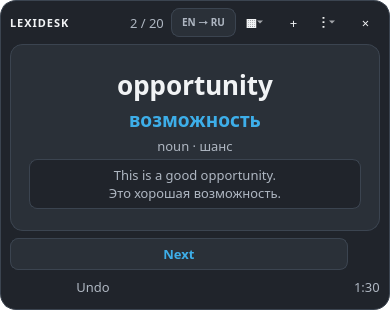
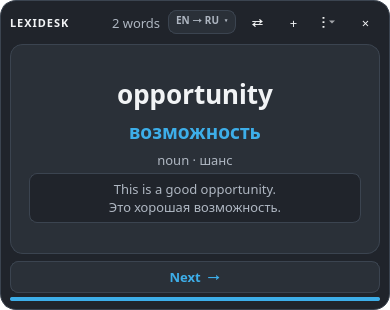
fix: improve responsive cross-platform UI

diff --git a/src/lexidesk/dialogs.py b/src/lexidesk/dialogs.py
@@ -12,11 +12,13 @@ from PySide6.QtWidgets import (
     QDialogButtonBox,
     QDoubleSpinBox,
     QFormLayout,
+    QFrame,
     QHBoxLayout,
     QLabel,
     QLineEdit,
     QMessageBox,
     QPushButton,
+    QScrollArea,
     QSpinBox,
     QTabWidget,
     QVBoxLayout,
@@ -156,7 +158,8 @@ class AddWordDialog(QDialog):
         self.source_edit.setPlaceholderText("Word or phrase")
         self.source_edit.returnPressed.connect(self.translate)
 
-        self.translate_button = QPushButton("Translate offline")
+        self.translate_button = QPushButton("Translate")
+        self.translate_button.setToolTip("Translate using installed offline data")
         self.translate_button.clicked.connect(self.translate)
 
         source_row = QHBoxLayout()
@@ -227,6 +230,7 @@ class AddWordDialog(QDialog):
         self.source_info_edit.setPlaceholderText("FreeDict, course, book, personal…")
 
         form = QFormLayout()
+        form.setRowWrapPolicy(QFormLayout.RowWrapPolicy.WrapLongRows)
         form.addRow("Word / phrase", source_widget)
         form.addRow("Languages", language_widget)
         form.addRow("", direction_widget)
@@ -258,9 +262,18 @@ class AddWordDialog(QDialog):
         buttons.rejected.connect(self.reject)
         self.buttons = buttons
 
+        form_widget = QWidget()
+        form_widget.setLayout(form)
+        form_scroll = QScrollArea()
+        form_scroll.setObjectName("formScroll")
+        form_scroll.setWidgetResizable(True)
+        form_scroll.setFrameShape(QFrame.Shape.NoFrame)
+        form_scroll.setWidget(form_widget)
+
         card_page = QWidget()
         card_layout = QVBoxLayout(card_page)
-        card_layout.addLayout(form)
+        card_layout.setContentsMargins(0, 0, 0, 0)
+        card_layout.addWidget(form_scroll, 1)
         card_layout.addWidget(hint)
         card_layout.addWidget(buttons)
         layout = QVBoxLayout(self)
@@ -460,7 +473,7 @@ class AddWordDialog(QDialog):
         if worker is not None:
             worker.deleteLater()
         self.unsetCursor()
-        self.translate_button.setText("Translate offline")
+        self.translate_button.setText("Translate")
         self.translate_button.setEnabled(True)
         self.buttons.setEnabled(True)
 
@@ -605,13 +618,14 @@ class SettingsDialog(QDialog):
         self.retention_spin.setDecimals(2)
         self.retention_spin.setValue(settings.desired_retention)
 
-        self.autocorrect_check = QCheckBox("Correct confident spelling mistakes")
+        self.autocorrect_check = QCheckBox("Autocorrect spelling errors")
         self.autocorrect_check.setChecked(settings.autocorrect)
 
-        self.autostart_check = QCheckBox("Launch automatically after login")
+        self.autostart_check = QCheckBox("Start after login")
         self.autostart_check.setChecked(settings.autostart)
 
         form = QFormLayout()
+        form.setRowWrapPolicy(QFormLayout.RowWrapPolicy.WrapLongRows)
         form.addRow("Theme", self.theme_combo)
         form.addRow("Card mode", self.reveal_combo)
         form.addRow("Practice mode", self.practice_combo)

diff --git a/src/lexidesk/insights.py b/src/lexidesk/insights.py
@@ -1,12 +1,14 @@
 from __future__ import annotations
 
-from PySide6.QtCore import Qt
+from PySide6.QtCore import Qt, QTimer
 from PySide6.QtWidgets import (
     QDialog,
+    QFrame,
     QHeaderView,
     QLabel,
     QProgressBar,
     QPushButton,
+    QScrollArea,
     QTableWidget,
     QTableWidgetItem,
     QVBoxLayout,
@@ -27,10 +29,10 @@ class AnalyticsDialog(QDialog):
         self.repository = repository
         self.daily_goal = max(1, daily_goal)
         self.setWindowTitle("LexiDesk Learning Analytics")
-        self.resize(820, 760)
+        self.resize(820, 680)
 
         self.summary = QLabel()
-        self.summary.setObjectName("word")
+        self.summary.setObjectName("heading")
         self.summary.setWordWrap(True)
 
         self.goal_label = QLabel()
@@ -85,18 +87,30 @@ class AnalyticsDialog(QDialog):
         close_button = QPushButton("Close")
         close_button.clicked.connect(self.accept)
 
+        content = QWidget()
+        content_layout = QVBoxLayout(content)
+        content_layout.setContentsMargins(0, 0, 0, 0)
+        content_layout.addWidget(self.summary)
+        content_layout.addWidget(self.goal_label)
+        content_layout.addWidget(self.goal_progress)
+        content_layout.addWidget(activity_title)
+        content_layout.addWidget(self.activity)
+        content_layout.addWidget(difficult_title)
+        content_layout.addWidget(self.difficult)
+        content_layout.addWidget(quiz_title)
+        content_layout.addWidget(self.quiz_types)
+        content_layout.addWidget(confusion_title)
+        content_layout.addWidget(self.confusions)
+
+        scroll = QScrollArea()
+        scroll.setObjectName("analyticsScroll")
+        scroll.setWidgetResizable(True)
+        scroll.setFrameShape(QFrame.Shape.NoFrame)
+        scroll.setWidget(content)
+        QTimer.singleShot(0, lambda: scroll.verticalScrollBar().setValue(0))
+
         layout = QVBoxLayout(self)
-        layout.addWidget(self.summary)
-        layout.addWidget(self.goal_label)
-        layout.addWidget(self.goal_progress)
-        layout.addWidget(activity_title)
-        layout.addWidget(self.activity, 1)
-        layout.addWidget(difficult_title)
-        layout.addWidget(self.difficult, 1)
-        layout.addWidget(quiz_title)
-        layout.addWidget(self.quiz_types, 1)
-        layout.addWidget(confusion_title)
-        layout.addWidget(self.confusions, 1)
+        layout.addWidget(scroll, 1)
         layout.addWidget(close_button, 0, Qt.AlignmentFlag.AlignRight)
         self.refresh()
 

diff --git a/src/lexidesk/themes.py b/src/lexidesk/themes.py
@@ -167,6 +167,10 @@ def stylesheet(name: str, scale: int = 100) -> str:
             font-weight: 800;
             letter-spacing: 1px;
         }}
+        QLabel#heading, QLabel#dialogTitle {{
+            font-size: {round(18 * factor)}px;
+            font-weight: 700;
+        }}
         QLabel#badge, QPushButton#badge {{
             color: {colors["muted"]};
             background: {colors["surface"]};
@@ -283,6 +287,22 @@ def stylesheet(name: str, scale: int = 100) -> str:
             border-color: {colors["accent"]};
         }}
         QLineEdit:disabled, QTextEdit:disabled, QPlainTextEdit:disabled {{
+            color: {colors["muted"]};
+            background: {colors["window"]};
+        }}
+        QComboBox, QSpinBox, QDoubleSpinBox {{
+            background: {colors["surface"]};
+            color: {colors["text"]};
+            border: 1px solid {colors["border"]};
+            border-radius: 7px;
+            padding: 5px 7px;
+            selection-background-color: {colors["accent"]};
+            selection-color: {colors["accent_text"]};
+        }}
+        QComboBox:focus, QSpinBox:focus, QDoubleSpinBox:focus {{
+            border-color: {colors["accent"]};
+        }}
+        QComboBox:disabled, QSpinBox:disabled, QDoubleSpinBox:disabled {{
             color: {colors["muted"]};
             background: {colors["window"]};
         }}
@@ -426,10 +446,24 @@ def stylesheet(name: str, scale: int = 100) -> str:
             color: {colors["text"]};
             border: 1px solid {colors["border"]};
         }}
+        QProgressBar {{
+            color: {colors["text"]};
+            background: {colors["surface"]};
+            border: 1px solid {colors["border"]};
+            border-radius: 6px;
+            text-align: center;
+            min-height: 18px;
+        }}
+        QProgressBar::chunk {{
+            background: {colors["accent"]};
+            border-radius: 5px;
+        }}
         QProgressBar#countdown {{
             background: {colors["border"]};
             border: none;
             border-radius: 2px;
+            min-height: 0;
+            max-height: 4px;
         }}
         QProgressBar#countdown::chunk {{
             background: {colors["accent"]};

diff --git a/tests/test_ui_modules.py b/tests/test_ui_modules.py
@@ -2,7 +2,7 @@ from __future__ import annotations
 
 from pathlib import Path
 
-from PySide6.QtWidgets import QApplication, QFileDialog, QMessageBox
+from PySide6.QtWidgets import QApplication, QFileDialog, QMessageBox, QScrollArea
 
 from lexidesk.database import WordRepository
 from lexidesk.dialogs import AddWordDialog, DeckSelectionDialog, SettingsDialog
@@ -93,6 +93,7 @@ def test_add_dialog_applies_translation_and_builds_card(qapp: QApplication) -> N
         "Add word",
         "Languages",
     ]
+    assert dialog.findChild(QScrollArea, "formScroll") is not None
     result = translator.translate("relyable")
 
     dialog._apply_translation(result, "relyable")
@@ -119,6 +120,7 @@ def test_analytics_dialog_populates_all_tables(
     dialog = AnalyticsDialog(repository, daily_goal=5)
 
     assert "1 meanings" in dialog.summary.text()
+    assert dialog.summary.objectName() == "heading"
     assert dialog.activity.rowCount() == 1
     assert dialog.difficult.rowCount() == 1
     assert dialog.quiz_types.rowCount() == 1

diff --git a/src/lexidesk/support.py b/src/lexidesk/support.py
@@ -1,11 +1,11 @@
 from __future__ import annotations
 
-from PySide6.QtCore import Qt
 from PySide6.QtWidgets import (
     QApplication,
     QDialog,
     QHBoxLayout,
     QLabel,
+    QLineEdit,
     QPushButton,
     QVBoxLayout,
 )
@@ -33,11 +33,10 @@ class SupportDialog(QDialog):
         network = QLabel(f"{SUPPORT_ASSET} · {SUPPORT_NETWORK}")
         network.setObjectName("metadata")
 
-        self.address_label = QLabel(SUPPORT_ADDRESS)
-        self.address_label.setTextInteractionFlags(
-            Qt.TextInteractionFlag.TextSelectableByMouse
-        )
-        self.address_label.setWordWrap(True)
+        self.address_label = QLineEdit(SUPPORT_ADDRESS)
+        self.address_label.setReadOnly(True)
+        self.address_label.setCursorPosition(0)
+        self.address_label.setToolTip("USDT TRC20 wallet address")
 
         self.copy_button = QPushButton("Copy address")
         self.copy_button.clicked.connect(self.copy_address)

diff --git a/src/lexidesk/window.py b/src/lexidesk/window.py
@@ -88,6 +88,7 @@ class LexiDeskWindow(QMainWindow):
 
         self._build_ui()
         self._update_practice_button()
+        self._update_header_density()
         self._apply_appearance()
 
         self.tick_timer = QTimer(self)
@@ -824,10 +825,17 @@ class LexiDeskWindow(QMainWindow):
         )
         self.card_actions.raise_()
 
+    def _update_header_density(self) -> None:
+        """Keep the header readable at the supported compact width."""
+        compact = self.width() < 370
+        self.title_label.setVisible(not compact)
+        self.goal_label.setVisible(not compact)
+
     def resizeEvent(self, event: QResizeEvent) -> None:
         super().resizeEvent(event)
         if hasattr(self, "card_actions"):
             self._position_card_actions()
+            self._update_header_density()
         self.settings.width = self.width()
         self.settings.height = self.height()
 

diff --git a/tests/test_window.py b/tests/test_window.py
@@ -92,6 +92,24 @@ def test_standalone_uses_mouse_only_next_and_compact_progress(tmp_path: Path) ->
     repository.close()
 
 
+def test_compact_window_hides_nonessential_header_labels(tmp_path: Path) -> None:
+    window, repository = _window(tmp_path)
+    window.resize(330, 290)
+    window._update_header_density()
+
+    assert window.title_label.isHidden()
+    assert window.goal_label.isHidden()
+    assert not window.direction_label.isHidden()
+    assert not window.swap_direction_button.isHidden()
+
+    window.resize(390, 310)
+    window._update_header_density()
+    assert not window.title_label.isHidden()
+    assert not window.goal_label.isHidden()
+    window.tick_timer.stop()
+    repository.close()
+
+
 def test_standalone_direction_button_reverses_the_same_deck(tmp_path: Path) -> None:
     window, repository = _window(tmp_path)
     window.tick_timer.stop()

diff --git a/tests/test_themes.py b/tests/test_themes.py
@@ -15,6 +15,8 @@ def test_every_theme_styles_popup_and_container_controls() -> None:
         "QTabBar::tab:selected",
         "QScrollBar::handle",
         "QLineEdit:disabled",
+        "QProgressBar::chunk",
+        "QComboBox:focus",
     )
 
     for name, colors in THEMES.items():

diff --git a/tests/test_support.py b/tests/test_support.py
@@ -14,3 +14,4 @@ def test_support_dialog_copies_public_trc20_address() -> None:
     assert SUPPORT_NETWORK == "TRON (TRC20)"
     assert app.clipboard().text() == SUPPORT_ADDRESS
     assert dialog.copy_button.text() == "Copied"
+    assert dialog.address_label.text() == SUPPORT_ADDRESS

diff --git a/CHANGELOG.md b/CHANGELOG.md
@@ -2,6 +2,11 @@
 
 ## Unreleased
 
+- Made the widget header responsive at its compact 330 px width.
+- Fixed high-DPI clipping in settings, add-card, analytics, and support dialogs.
+- Added themed progress bars and consistent combo/spin input styling.
+- Kept the add-card form scrollable while its Save and Cancel actions stay visible.
+
 - Apply themes at application scope with a cross-platform Fusion palette so
   Windows combo popups, menus, tabs, lists, tables, inputs, and disabled states
   keep readable, consistent foreground and background colors.
